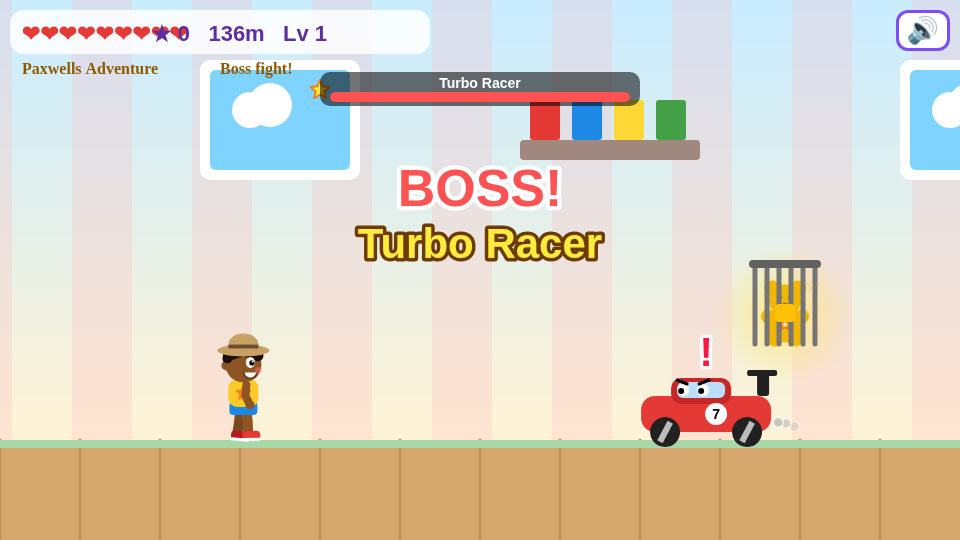
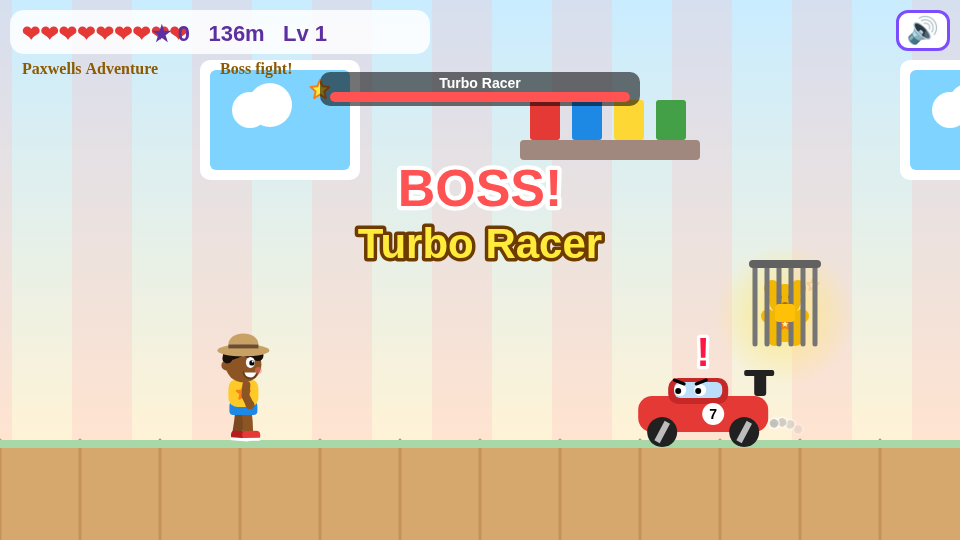
Smoother arm swing: shoulder rotation, hand clears chest on back swing

Changed region(s): [[0.6562, 0.6222, 0.8438, 0.8296]]

diff --git a/index.html b/index.html
@@ -142,15 +142,15 @@ function drawShots(){for(const s of shots){const x=s.x-camX;if(s.k=='wave'){X.fi
 function drawCage(){if(!tre||!cage)return;const x=tre.x-camX;if(x<-100||x>W+100)return;X.strokeStyle='#757575';X.lineWidth=5;for(let i=-30;i<=30;i+=12){X.beginPath();X.moveTo(x+i,tre.y-75);X.lineTo(x+i,tre.y+4);X.stroke()}rr(x-36,tre.y-80,72,8,4,'#616161');rr(x-10,tre.y-36,20,18,4,'#ffc107')}
 function mouse(o){const x=o.x-camX,y=o.y;X.save();X.translate(x+23,y);X.scale(o.vx>0?-1:1,1);X.fillStyle='#9e9e9e';X.beginPath();X.ellipse(0,16,22,13,0,0,7);X.fill();X.beginPath();X.arc(-14,6,7,0,7);X.fill();X.fillStyle='#f8bbd0';X.beginPath();X.arc(-14,6,4,0,7);X.fill();X.fillStyle='#000';X.beginPath();X.arc(-17,15,2.5,0,7);X.fill();X.strokeStyle='#ffc107';X.lineWidth=4;X.beginPath();X.moveTo(8,4);X.lineTo(8,-4+Math.sin(t/4)*3);X.stroke();X.beginPath();X.arc(8,-8,5,0,7);X.stroke();X.strokeStyle='#757575';X.lineWidth=2;X.beginPath();X.moveTo(22,18);X.quadraticCurveTo(32,10,30,24);X.stroke();X.restore()}
 function hero(x,y,face,ph,air,scale=1,vy=0,sq=0,moving=1){X.save();X.translate(x+20,y+70);X.scale(face*scale,scale);X.scale(1+sq,1-sq);
- const skin='#8d5524',dk='#6b3e1a',skB='#7a4920';let bob=0,lean=0,hb=0,L1,L2,A1,A2;
+ const skin='#8d5524',dk='#6b3e1a',skB='#7a4920';let bob=0,lean=0,hb=0,L1,L2,A1,A2,s1=0,s2=0;
  if(air){if(vy<0){L1=[-0.35,-0.5];L2=[1.0,-1.7];A1=[-2.5,0.4];A2=[2.6,0.3]}else{L1=[-0.15,-0.7];L2=[0.45,-0.9];A1=[-1.7,0.6];A2=[1.6,0.6]}lean=0.06}
- else if(moving){const leg=p=>[0.85*Math.sin(p),-(0.3+1.35*Math.max(0,Math.cos(p)))];L1=leg(ph+Math.PI);L2=leg(ph);A1=[0.95*Math.sin(ph),1.25];A2=[0.95*Math.sin(ph+Math.PI),1.25];bob=-3.5*Math.abs(Math.cos(ph));hb=Math.sin(ph*2)*1.2;lean=0.15}
+ else if(moving){const leg=p=>[0.85*Math.sin(p),-(0.3+1.35*Math.max(0,Math.cos(p)))];L1=leg(ph+Math.PI);L2=leg(ph);const arm=p=>{const s=Math.sin(p);return[s>0?1.0*s:1.3*s,0.6+0.8*(s+1)/2]};A1=arm(ph);A2=arm(ph+Math.PI);s1=4*Math.sin(ph);s2=5*Math.sin(ph+Math.PI);bob=-3.5*Math.abs(Math.cos(ph));hb=Math.sin(ph*2)*1.2;lean=0.15}
  else{const br=Math.sin(t/22);L1=[-0.1,-0.06];L2=[0.1,-0.06];A1=[0.12+0.04*br,0.45];A2=[-0.12-0.04*br,0.55];bob=br*1.1;hb=br*.6}
  const limb=(x0,y0,a,l1,l2,w,col,end)=>{const kx=x0+Math.sin(a[0])*l1,ky=y0+Math.cos(a[0])*l1,bb=a[0]+a[1],fx=kx+Math.sin(bb)*l2,fy=ky+Math.cos(bb)*l2;X.strokeStyle=col;X.lineWidth=w;X.lineCap='round';X.lineJoin='round';X.beginPath();X.moveTo(x0,y0);X.lineTo(kx,ky);X.lineTo(fx,fy);X.stroke();end&&end(fx,fy,bb)};
  const shoe=c=>(fx,fy,bb)=>{X.save();X.translate(fx,fy);X.rotate(Math.max(-.6,Math.min(.6,-(bb)*.5)));rr(-6,-4,18,9,4,c);rr(-6,3,18,3,1,'#fff');X.restore()};
  const hand=c=>(fx,fy)=>{X.beginPath();X.arc(fx,fy,4.5,0,7);X.fillStyle=c;X.fill()};
  X.translate(0,bob);X.rotate(lean);
- limb(-3,-54,A1,11,10,8,skB,hand(skB));
+ limb(-3+s1,-54,A1,11,10,8,skB,hand(skB));
  limb(-3,-30,L1,13,13,10,skB,shoe('#b71c1c'));
  limb(3,-30,L2,13,13,10,skin,shoe('#e53935'));
  rr(-14,-37,28,13,4,'#1e88e5');
@@ -167,7 +167,7 @@ function hero(x,y,face,ph,air,scale=1,vy=0,sq=0,moving=1){X.save();X.translate(x
  X.beginPath();X.arc(7,-67,7,0.15,Math.PI-.15);X.fillStyle='#fff';X.fill();X.strokeStyle=dk;X.lineWidth=2;X.stroke();
  X.fillStyle='rgba(255,120,120,.45)';X.beginPath();X.arc(15,-68,3.5,0,7);X.fill();
  X.restore();
- limb(3,-54,A2,11,10,8,skin,hand(skin));
+ limb(3+s2,-54,A2,11,10,8,skin,hand(skin));
  X.restore()}
 function txt(s,x,y,sz,c='#fff',st='#5d2fa0'){X.font=`bold ${sz}px "Comic Sans MS","Trebuchet MS",sans-serif`;X.textAlign='center';X.textBaseline='middle';X.lineWidth=sz/6;X.lineJoin="round";X.strokeStyle=st;X.strokeText(s,x,y);X.fillStyle=c;X.fillText(s,x,y)}
 function button(s,x,y,w,h,c,sel=true){rr(x-w/2,y-h/2+5,w,h,18,'rgba(0,0,0,.2)');rr(x-w/2,y-h/2,w,h,18,sel?c:'#ccc');txt(s,x,y,h*.45,'#fff','rgba(0,0,0,.35)')}
